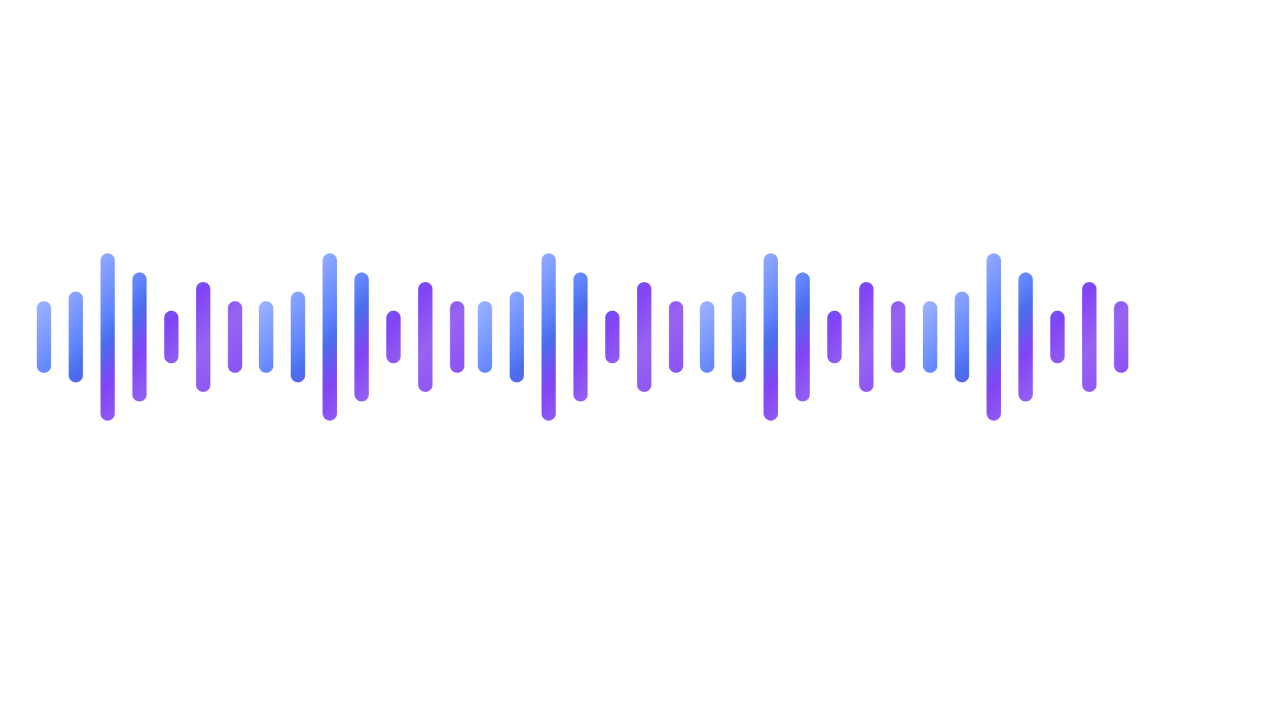
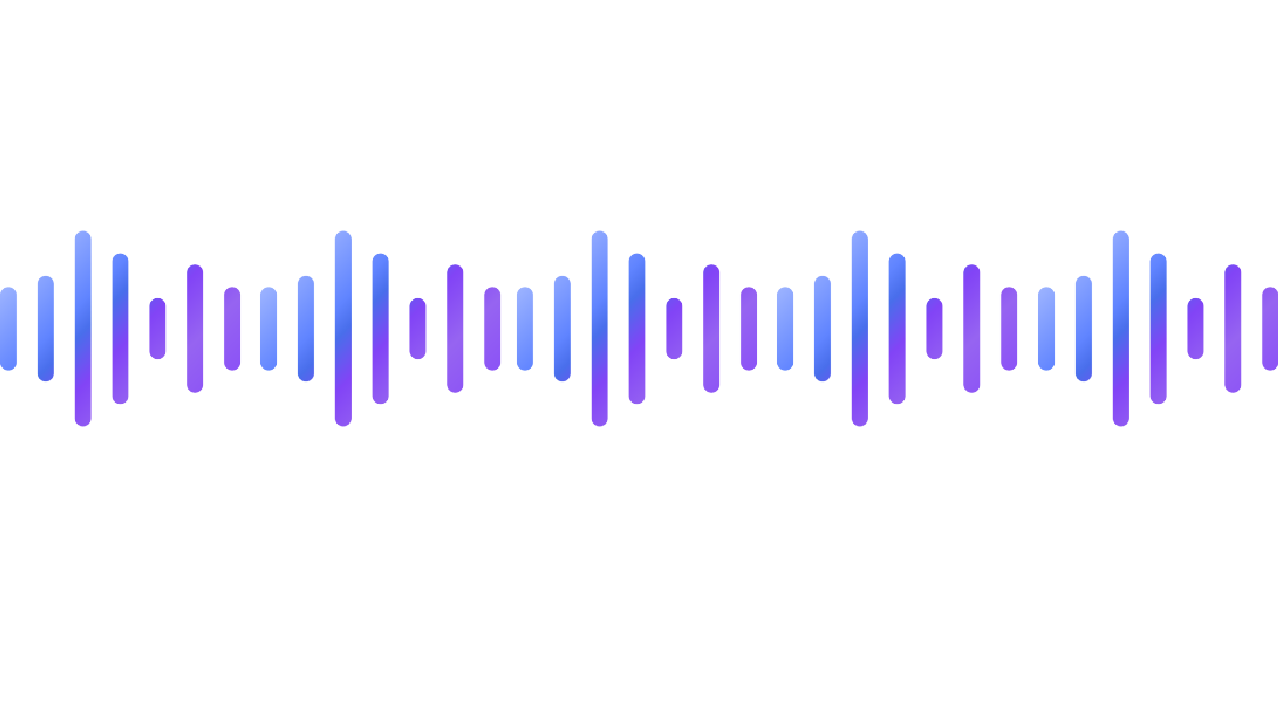
Waves
Fogo que trabalhao

Changed region(s): [[0.0, 0.3073, 1.0, 0.6145]]

diff --git a/App/components/elements/ProgressBar.jsx b/App/components/elements/ProgressBar.jsx
@@ -1,9 +1,8 @@
 import React, { useState, useEffect } from 'react';
-import { View, Text, TouchableOpacity, StyleSheet } from 'react-native';
+import { View, Text, TouchableOpacity, StyleSheet, ImageBackground } from 'react-native';
 import { Audio } from 'expo-av';
 import Slider from '@react-native-community/slider';
 import Icon from 'react-native-vector-icons/MaterialIcons';
-
 
 const AudioPlayer = () => {
   const [sound, setSound] = useState(null);
@@ -14,9 +13,7 @@ const AudioPlayer = () => {
 
   useEffect(() => {
     loadAudio();
-    return () => {
-      sound?.unloadAsync();
-    };
+    return () => sound?.unloadAsync();
   }, []);
 
   const loadAudio = async () => {
@@ -41,14 +38,8 @@ const AudioPlayer = () => {
   };
 
   const togglePlayPause = async () => {
-    if (!sound) {
-      return;
-    }
-    if (isPlaying) {
-      await sound.pauseAsync();
-    } else {
-      await sound.playAsync();
-    }
+    if (!sound) return;
+    isPlaying ? await sound.pauseAsync() : await sound.playAsync();
     setIsPlaying(!isPlaying);
   };
 
@@ -119,32 +110,51 @@ const AudioPlayer = () => {
     return `${minutes}:${returnedSeconds}`;
   };
 
+  const progressBarImage = require('../../assets/course/full_wave.png');
+  const playedWidth = `${(currentTime / duration) * 100}%`;
+
   return (
     <View style={styles.audioPlayer}>
       <Text style={styles.buffering}>{isBuffering ? '' : ' '}</Text>
       <View style={styles.controls}>
       <Text style={styles.time}>{calculateTime(currentTime)}</Text>
 
-      <Slider
-        style={styles.timeline}
-        value={currentTime}
-        minimumValue={0}
-        maximumValue={duration}
-        onValueChange={onSliderValueChange}
-        onSlidingStart={onSlidingStart}
-        onSlidingComplete={onSlidingComplete}
-        minimumTrackTintColor="#9BB1FD"
-        maximumTrackTintColor="rgba(8,30,63,0.1)"
-        thumbTintColor="#9BB1FD"
-        trackHeight={4}
-      />
+      <View style={styles.progressContainer}>
+          <ImageBackground
+            source={progressBarImage}
+            resizeMode="cover"
+            style={styles.imageBackgroundStyle}
+            imageStyle={{ opacity: 0.3 }}
+            pointerEvents="none"
+          />
+          <View style={[styles.progressMask, { width: playedWidth}]} pointerEvents="none">
+            <ImageBackground
+              source={progressBarImage}
+              resizeMode="cover"
+              style={[styles.imageBackgroundStyle]}
+              imageStyle={{ opacity: 1}}
+              pointerEvents="none"
+            />
+          </View>
+          <Slider
+            style={styles.timeline}
+            value={currentTime}
+            minimumValue={0}
+            maximumValue={duration}
+            onValueChange={onSliderValueChange}
+            onSlidingStart={onSlidingStart}
+            onSlidingComplete={onSlidingComplete}
+            minimumTrackTintColor="#9BB1FD"
+            maximumTrackTintColor="rgba(8,30,63,0.1)"
+            thumbTintColor="#9BB1FD"
+            trackHeight={4}
+          />
+        </View>
       <Text style={styles.time}>{calculateTime(duration)}</Text>
 
       </View>
-
-
-      <View style={styles.controls}>
-      <TouchableOpacity style={styles.skipButton} onPress={skipBackward}>
+        <View style={styles.controls}>
+          <TouchableOpacity style={styles.skipButton} onPress={skipBackward}>
     <Icon
       name="favorite-border"
       size={36}
@@ -181,7 +191,7 @@ const AudioPlayer = () => {
     size={36}
     color="#9BB1FD"
   />
-</TouchableOpacity>
+          </TouchableOpacity>
 
 
 
@@ -194,9 +204,10 @@ const AudioPlayer = () => {
 const styles = StyleSheet.create({
   audioPlayer: {
     padding: 20,
-    position: 'absolute',     // Centraliza o conteúdo horizontalmente
+    position: 'absolute',
     bottom: '35%',
-        right:'6%',
+    width: '100%',
+    alignItems: 'center',  // Ensure alignment is centered for the whole player
   },
   trackTitle: {
     fontSize: 18,
@@ -204,14 +215,38 @@ const styles = StyleSheet.create({
     marginLeft: 90,
   },
   timeline: {
-    width: '70%',
-    height: 20
+    position: 'absolute',  // This will take it out of the normal flow
+    top: 10,  // Adjust top position to align it properly
+    left: 0,
+    right: 0,
+    height: 20,
+    opacity: 0
   },
   controls: {
     flexDirection: 'row',
-    justifyContent: 'space-between',
+    justifyContent: 'center',
     alignItems: 'center',
-    marginTop: 12
+    marginTop: 12,
+    width: '100%',
+  },
+  progressContainer: {
+    height: 50,
+    position: 'relative',
+    left: 0,
+    overflow: 'hidden',  // Optional: Center vertically if top is set
+  },
+  
+
+  imageBackgroundStyle: {
+    flex: 1,  // Fill the area of the mask
+    width: 260,  // Set width as needed
+    height: '100%',  // Fill vertically
+  },
+  progressMask: {
+    height: '100%',
+    width: 260,  // Take full width of the container
+    position: 'absolute',
+    overflow: 'hidden',
   },
   playPauseButton: {
     justifyContent: 'center',
